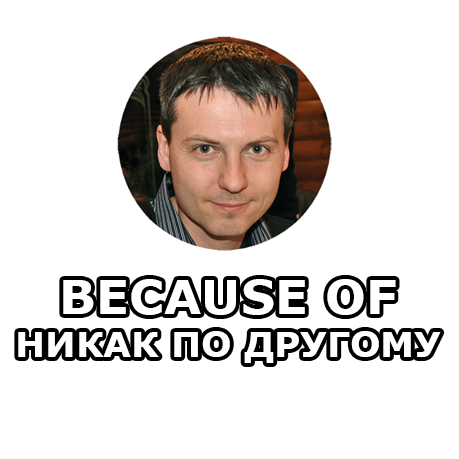
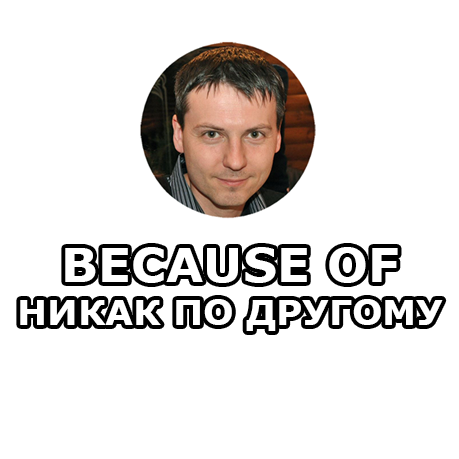
css changes, devtools in deployment, fixes, new prints

Changed region(s): [[0.0305, 0.061, 0.976, 0.8235]]

diff --git a/src/serviceWorker.js b/src/serviceWorker.js
@@ -12,12 +12,12 @@
 
 const isLocalhost = Boolean(
   window.location.hostname === 'localhost' ||
-    // [::1] is the IPv6 localhost address.
-    window.location.hostname === '[::1]' ||
-    // 127.0.0.0/8 are considered localhost for IPv4.
-    window.location.hostname.match(
-      /^127(?:\.(?:25[0-5]|2[0-4][0-9]|[01]?[0-9][0-9]?)){3}$/
-    )
+  // [::1] is the IPv6 localhost address.
+  window.location.hostname === '[::1]' ||
+  // 127.0.0.0/8 are considered localhost for IPv4.
+  window.location.hostname.match(
+    /^127(?:\.(?:25[0-5]|2[0-4][0-9]|[01]?[0-9][0-9]?)){3}$/
+  )
 );
 
 export function register(config) {
@@ -43,7 +43,7 @@ export function register(config) {
         navigator.serviceWorker.ready.then(() => {
           console.log(
             'This web app is being served cache-first by a service ' +
-              'worker. To learn more, visit https://bit.ly/CRA-PWA'
+            'worker. To learn more, visit https://bit.ly/CRA-PWA'
           );
         });
       } else {
@@ -71,7 +71,7 @@ function registerValidSW(swUrl, config) {
               // content until all client tabs are closed.
               console.log(
                 'New content is available and will be used when all ' +
-                  'tabs for this page are closed. See https://bit.ly/CRA-PWA.'
+                'tabs for this page are closed. See https://bit.ly/CRA-PWA.'
               );
 
               // Execute callback

diff --git a/src/components/controll/controll.jsx b/src/components/controll/controll.jsx
@@ -7,12 +7,21 @@ import {
 } from './controll.styles';
 
 const ConstructorControll = ({ title, items, activeItem, baseUrl, handleClick, text }) => {
+    const imgUrl = (item) => {
+        let url = null;
+        try {
+            url = require('../../' + baseUrl + item.url);
+        } catch{
+
+        }
+        return url;
+    }
     return (
         <Controll>
             <ControllTitle>{title}</ControllTitle>
             <ControllVariants>
                 {activeItem && items && items.map((item) => (
-                    <ControllVariant url={baseUrl && item.url && require('../../' + baseUrl + item.url)}
+                    <ControllVariant url={baseUrl && item.url && imgUrl(item)}
                         active={item.id === activeItem.id}
                         onClick={handleClick(item)}
                         key={item.id}>

diff --git a/src/components/canvas/canvas.jsx b/src/components/canvas/canvas.jsx
@@ -4,18 +4,29 @@ import ImageCanvas from '../ImageCanvas/ImageCanvas';
 import { ColorCanvas } from './canvas.styles';
 
 const Canvas = ({ colors, activeColor, forvardcanvasRef, ...props }) => {
+
+	const imgUrl = () => {
+		let url = null;
+		try {
+			url = require(`../../assets/colors/${activeColor.url}`);
+		} catch{
+
+		}
+		return url;
+	}
+
 	return (
 		<>
 			{colors && activeColor ? (
 				<ColorCanvas
 					ref={forvardcanvasRef}
-					url={require(`../../assets/colors/${activeColor.url}`)}
+					url={imgUrl()}
 				>
 					<ImageCanvas></ImageCanvas>
 				</ColorCanvas>
 			) : (
-				<div>Loading...</div>
-			)}
+					<div>Loading...</div>
+				)}
 		</>
 	);
 };

diff --git a/src/components/ImageCanvas/ImageCanvas.jsx b/src/components/ImageCanvas/ImageCanvas.jsx
@@ -3,15 +3,27 @@ import { connect } from 'react-redux';
 import { Canvas } from './ImageCanvas.styles';
 
 const ImageCanvas = ({ prints, activePrint }) => {
+
+	const imgUrl = () => {
+		let url = null;
+		try {
+			url = require(`../../assets/prints/${activePrint.url}`);
+		} catch{
+
+		}
+		return url;
+	}
+
 	return (
 		<>
 			{prints && activePrint ? (
 				<Canvas
-					url={require(`../../assets/prints/${activePrint.url}`)}
-				></Canvas>
+					url={imgUrl()}
+				></Canvas >
 			) : (
-				<div>Loading...</div>
-			)}
+					<div>Loading...</div>
+				)
+			}
 		</>
 	);
 };

diff --git a/src/redux/store.js b/src/redux/store.js
@@ -6,7 +6,12 @@ import rootReducer from './root-reducer';
 
 const middlewares = [];
 
-export const store = createStore(rootReducer, composeWithDevTools(applyMiddleware(...middlewares)));
+let applyMiddlewares = applyMiddleware(...middlewares);
+
+if (process.env.NODE_ENV !== 'production') {
+    applyMiddlewares = composeWithDevTools(applyMiddlewares)
+}
+export const store = createStore(rootReducer, applyMiddlewares);
 
 export const persistor = persistStore(store);
 

diff --git a/src/components/ImageCanvas/ImageCanvas.styles.jsx b/src/components/ImageCanvas/ImageCanvas.styles.jsx
@@ -1,14 +1,14 @@
 import styled from 'styled-components';
 
 export const Canvas = styled.div`
-	top: 20%;
+	top: 23%;
 	width: 30%;
-	height: 30%;
+	height: 25%;
 	background: url(${props => props.url});
 	background-size: cover;
 	position: absolute;
 	left: 50%;
 	opacity: 0.9;
 	transform: translateX(-50%);
-	background-position: center;
+	background-position: center top;
 `;

diff --git a/src/components/order-button/order-button.jsx b/src/components/order-button/order-button.jsx
@@ -39,7 +39,7 @@ const OrderButton = ({
 	return (
 		<>
 			<Price>
-				<PriceDiscount>500 UAH</PriceDiscount>250 UAH
+				<PriceDiscount>500 UAH</PriceDiscount>250 UAH<span className="capture">The price may vary after order.</span>
 			</Price>
 			<CustomButton onClick={Order}> Order </CustomButton>
 		</>

diff --git a/src/components/item-constructor/item-constructor.jsx b/src/components/item-constructor/item-constructor.jsx
@@ -28,6 +28,7 @@ const ItemConstructor = ({
 				<RenderWrapper>
 					<Canvas forvardcanvasRef={canvasRef} />
 				</RenderWrapper>
+				<div className="capture">This is an approximate view only. The product may differ from what you see above.</div>
 			</RenderArea>
 			<ControllWrapper>
 				<Controlls />

diff --git a/src/index.css b/src/index.css
@@ -16,3 +16,15 @@ code {
 .logo{
   max-height: 100%;
 }
+div.capture{
+  font-size: 11px;
+  color: #a5a5a5;
+  padding-top: 10px;
+  text-align: center;
+}
+span.capture{
+  font-size: 11px;
+  color: #a5a5a5;
+  text-align: left;
+  display: block;
+}

diff --git a/src/components/controll/controll.styles.jsx b/src/components/controll/controll.styles.jsx
@@ -20,6 +20,7 @@ export const ControllVariant = styled.div`
 	background-size: contain;
 	background-repeat: no-repeat;
 	margin-right: 5px;
+	margin-bottom: 5px;
 	box-sizing: border-box;
 	cursor: pointer;
 	display: flex;

diff --git a/src/components/header/header.styles.jsx b/src/components/header/header.styles.jsx
@@ -17,6 +17,7 @@ export const Content = styled.div`
 	display: flex;
 	justify-content: space-between;
 	position: relative;
+	padding: 0 20px;
 `;
 
 export const LogoContainer = styled(Link)`

diff --git a/src/pages/admin/admin.styled.jsx b/src/pages/admin/admin.styled.jsx
@@ -5,6 +5,7 @@ export const Content = styled.div`
   margin: 0 auto;
   display: flex;
   justify-content: space-between;
+  padding: 0 20px;
 `;
 
 export const AdminArea = styled.div`
